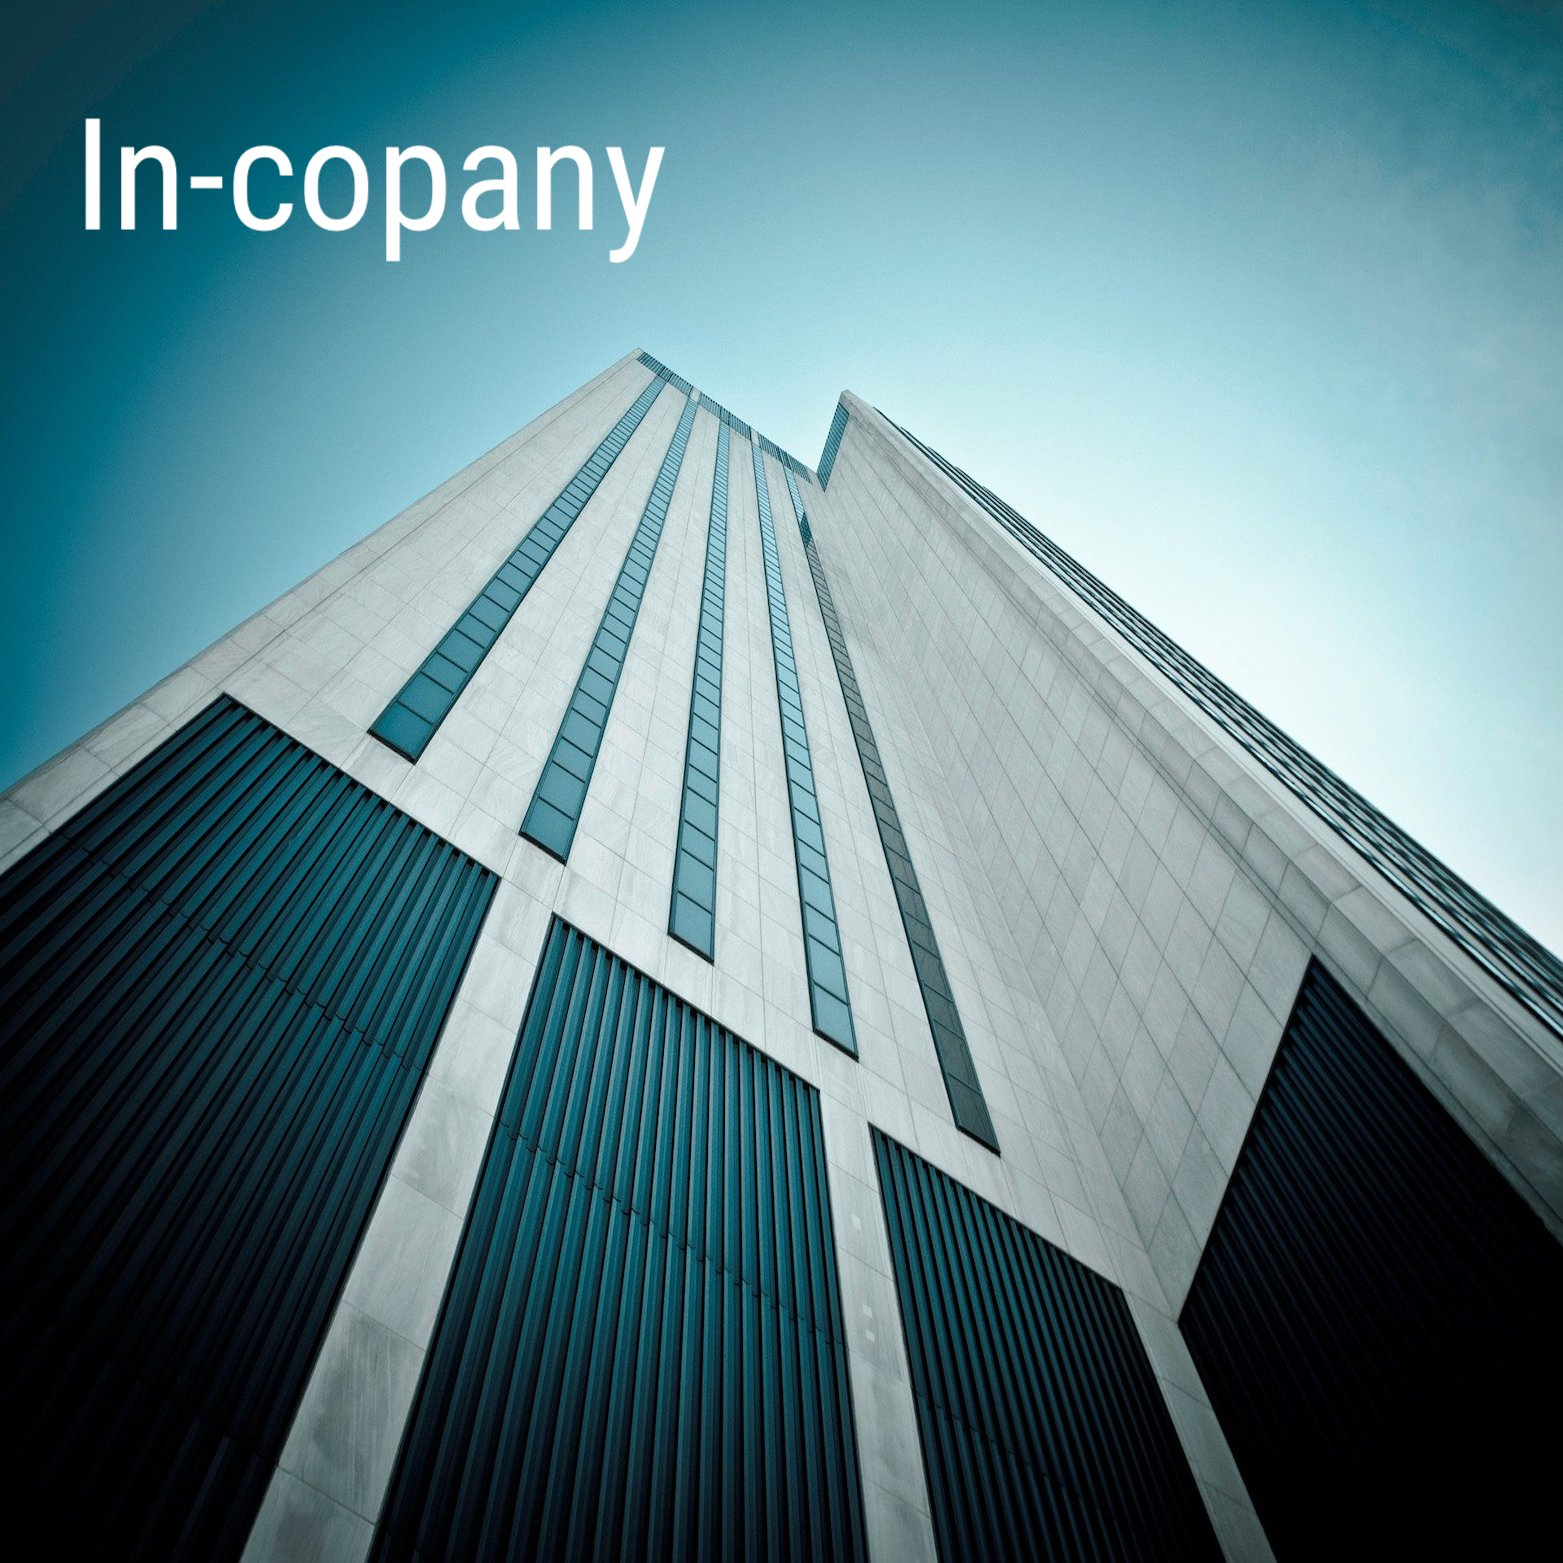
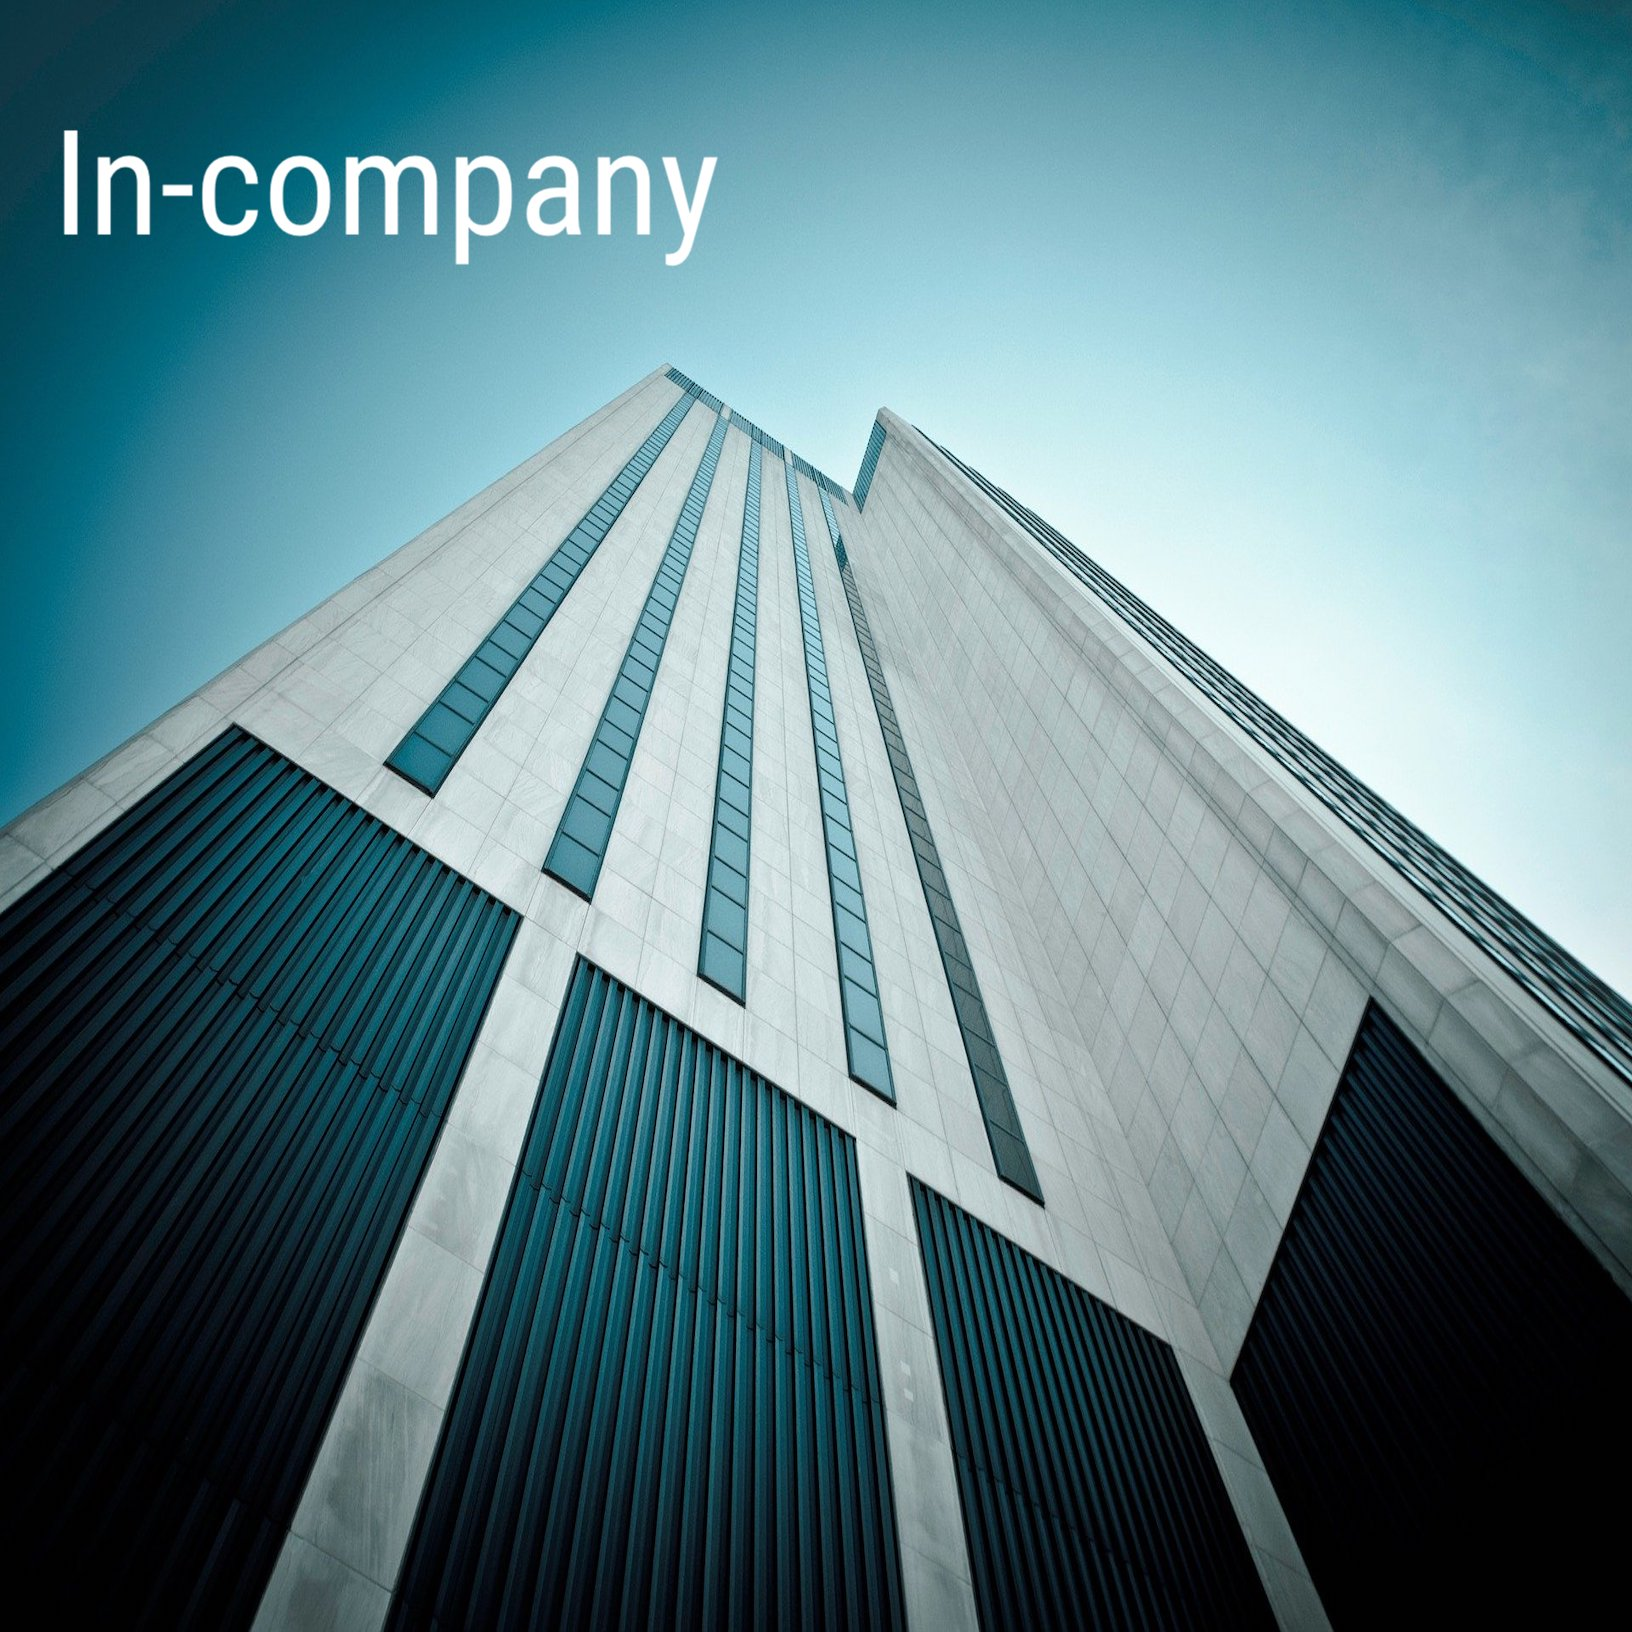
corrigindo imagens e typos

Changed region(s): [[0.0307, 0.0614, 0.4607, 0.1843]]

diff --git a/layouts/cursos/single.html b/layouts/cursos/single.html
@@ -57,7 +57,7 @@
           {{ else}}
           
               <a href = "/contato">
-                <button id="pagamento" class="cta-btn" style="background: none;">
+                <button id="pagamento" class="cta-btn" style="background: none; font-size: 13px;">
                   Solicite um orçamento
                 </button>
               </a>

diff --git a/content/cursos/in-company.md b/content/cursos/in-company.md
@@ -5,7 +5,7 @@ hora: "Treinamentos dentro ou fora do horário comercial"
 local: "Faça o treinamento na sua empresa ou utilize o nosso espaço"
 img: "img/cursos/in-company.jpg"
 preco: "Escolha o conteúdo e solicite um orçamento"
-banner: "img/cursos/in-company.jpg"
+banner: "img/cursos/in-company-banner.jpg"
 desc: "Monte o curso que melhor atenda às demandas da sua equipe."
 requisitos: ""
 professores: ["Daniel Falbel", "William Amorim"]
@@ -58,6 +58,7 @@ Que tal uma ferramenta de BI gratuita e com possibilidades ilimitadas? Com este 
 <img src = "/img/cursos/hex/rmarkdown.png" width = "9%">
 <img src = "/img/cursos/hex/shiny.png" width = "9%">
 <img src = "/img/cursos/hex/golem.png" width = "9%">
+<img src = "/img/cursos/hex/auth0.png" width = "9%">
 
 <br>
 
@@ -80,13 +81,13 @@ Não encontrou o tema que a sua equipe precisa? Entre em contato e nos conte a s
 </header>
 
 <center>
-Já tivemos a satisfação de ministrar treinamentos nas seguitnes empreseas:
+Já tivemos a satisfação de ministrar treinamentos nas seguintes empresas:
 
-<img src = "/img/cursos/logos-empresas/logo-mateus.png" width = "20%" style = "padding: 25px;">
-<img src = "/img/cursos/logos-empresas/logo-spc.jpg" width = "20%" style = "padding: 25px;">
-<img src = "/img/cursos/logos-empresas/logo-kantar.png" width = "20%" style = "padding: 25px;">
-<img src = "/img/cursos/logos-empresas/logo-ias.png" width = "20%" style = "padding: 25px;">
-<img src = "/img/cursos/logos-empresas/logo-banco-honda.png" width = "20%" style = "padding: 25px;">
-<img src = "/img/cursos/logos-empresas/logo-john-deere.png" width = "20%" style = "padding: 25px;">
-<img src = "/img/cursos/logos-empresas/logo-edp.jpg" width = "20%" style = "padding: 25px;">
+<img src = "/img/cursos/logos-empresas/logo-mateus.png" width = "190px" height = "130px" style = "padding: 25px;">
+<img src = "/img/cursos/logos-empresas/logo-spc.jpg" width = "200px" height = "140px" style = "padding: 25px;">
+<img src = "/img/cursos/logos-empresas/logo-kantar.png" width = "190px" height = "130px" style = "padding: 25px;">
+<img src = "/img/cursos/logos-empresas/logo-ias.png" width = "220px" height = "130px" style = "padding: 25px;">
+<img src = "/img/cursos/logos-empresas/logo-banco-honda.png" width = "190px" height = "100px" style = "padding: 25px;">
+<img src = "/img/cursos/logos-empresas/logo-john-deere.png" width = "210px" height = "160px" style = "padding: 25px;">
+<img src = "/img/cursos/logos-empresas/logo-edp.jpg" width = "190px" height = "150px" style = "padding: 25px;">
 </center>
